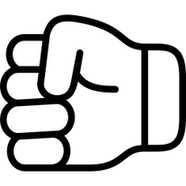
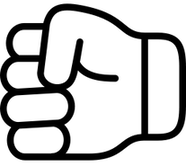
style hand gestures

diff --git a/index.js b/index.js
@@ -6,19 +6,20 @@ const scissorIcon = "./assets/scissor.png";
 
 const rock = document.createElement("div");
 rock.id = "rock";
-rock.innerHTML = `<img src="${rockIcon}" alt="rock hand">`;
+rock.innerHTML = `<img src="${rockIcon}" alt="rock hand" class="gesture">`;
 
 const paper = document.createElement("div");
 paper.id = "paper";
-paper.innerHTML = `<img src="${paperIcon}" alt="paper hand">`;
+paper.innerHTML = `<img src="${paperIcon}" alt="paper hand" class="gesture">`;
 
 const scissor = document.createElement("div");
 scissor.id = "scissor";
-scissor.innerHTML = `<img src="${scissorIcon}" alt="scissor hand">`;
+scissor.innerHTML = `<img src="${scissorIcon}" alt="scissor hand" class="gesture">`;
 
 board.append(rock, paper, scissor);
 
 let output = document.getElementById("output-message");
+output.setAttribute("hidden", "");
 
 const computersChoice = () => {
   let rockPaperScissorArray = ["rock", "paper", "scissor"];
@@ -34,7 +35,7 @@ board.childNodes.forEach((gesture) =>
 );
 
 function usersChoice() {
-  output.innerText = "";
+  output.removeAttribute("hidden", "");
   rockPaperScissor(this.id, computersChoice());
   return this.id;
 }

diff --git a/style.css b/style.css
@@ -1,0 +1,26 @@
+#rock-paper-scissor {
+  width: 95vw;
+  height: 75vh;
+  margin-top: 10vh;
+  display: flex;
+  flex-direction: row;
+  flex-wrap: wrap;
+  justify-content: space-evenly;
+  align-content: center;
+}
+
+#rock-paper-scissor > div {
+  cursor: pointer;
+  width: 320px;
+  height: 320px;
+  background-color: papayawhip;
+  border-radius: 50%;
+  position: relative;
+}
+
+.gesture {
+  height: 50%;
+  position: absolute;
+  top: 25%;
+  left: 15%;
+}
